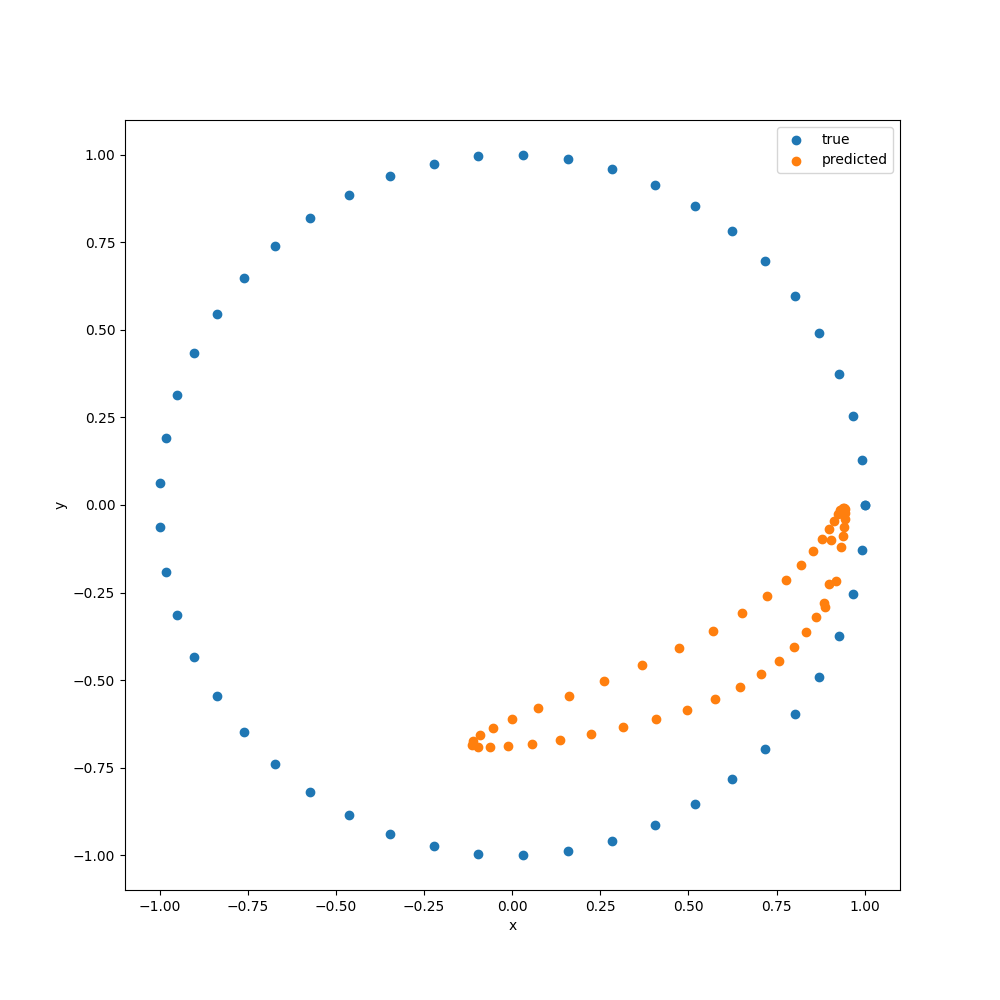
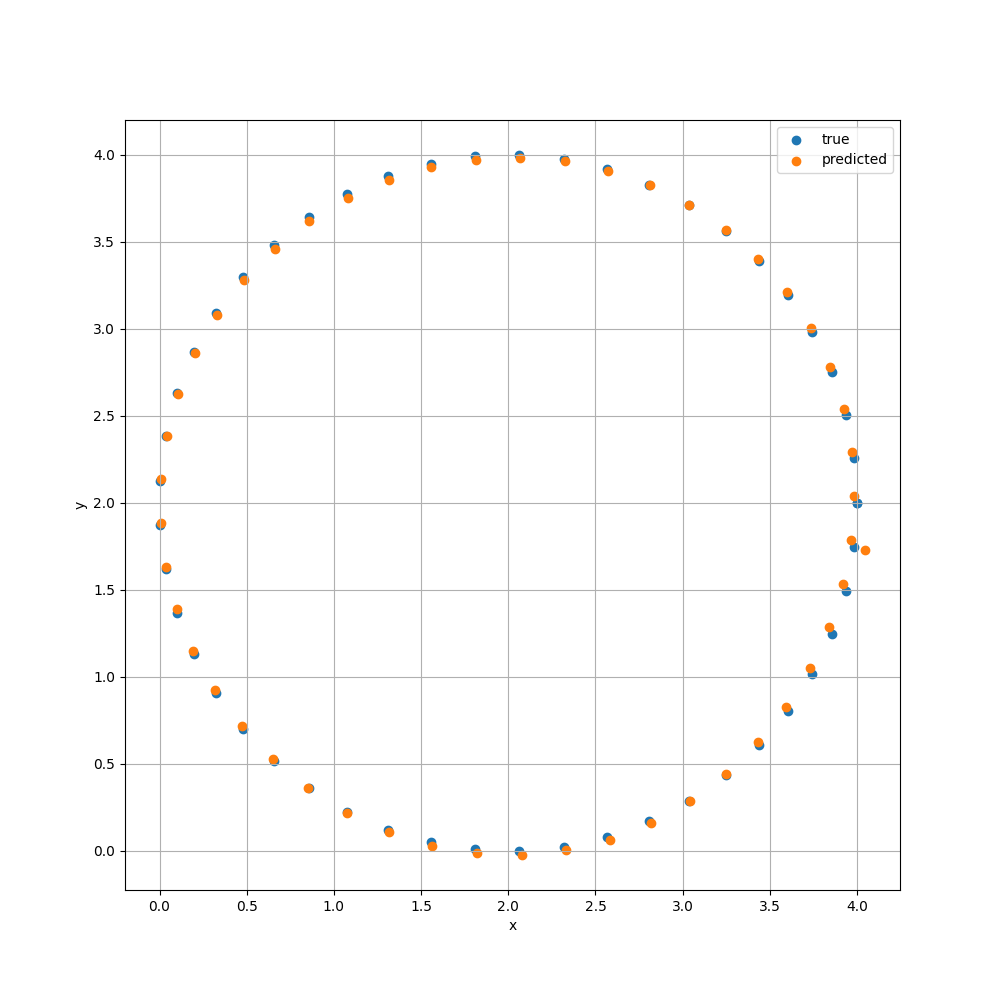
Completed

diff --git a/pytorch_pr3.py b/pytorch_pr3.py
@@ -57,12 +57,12 @@ class RNNModel(nn.Module):
         self.input_size = input_size
         self.hidden_size = hidden_size
         self.output_size = output_size
-        self.rnncell = nn.RNNCell(input_size, hidden_size, nonlinearity="relu")
+        self.rnncell = nn.RNNCell(input_size, hidden_size)
         self.fc = nn.Linear(hidden_size, output_size)
          
     def forward(self, x, hidden):
         hidden = self.rnncell(x, hidden)
-        output = self.fc(hidden)
+        output = hidden
         output = output.view(-1, 2)
         return output, hidden
 """
@@ -81,29 +81,36 @@ def train(epochs, model, criterion, optimizer):
     losses = []
 
     for epoch in range(epochs):
+        running_outputdata = []
         print('epoch:', epoch)
         optimizer.zero_grad()
         hidden = torch.zeros(hidden_size).to(device)
+        running_loss = 0.
         for x_train, y_train in train_loader:
             for timestep in range(x_train.shape[1]):
-                running_loss = 0.
                 traindata = x_train[0, timestep].to(device)
                 targetdata = y_train[0, timestep].to(device)
                 targetdata = targetdata.view(-1, 2)
                 output, hidden = model(traindata, hidden)
+                output = torch.atanh(output)
                 output, hidden = output.to(device), hidden.to(device)
                 loss = criterion(output, targetdata)
-                running_loss += loss
+                running_loss += loss / x_train.shape[1]
                 
-                # Last epoch: make outputdata
-                if epoch == epochs - 1:
-                    outputdata_cell = output.to("cpu").detach().numpy()
-                    outputdata.append(outputdata_cell)
-            running_loss.backward()
-            optimizer.step()
+                running_outputdata_cell = output.to("cpu").detach().numpy()
+                running_outputdata.append(running_outputdata_cell)
+                    
+        running_loss.backward()
+        optimizer.step()
 
-        print(f'loss: {running_loss.item() / len(x_train):.6f}')
-        losses.append(running_loss.item() / len(train_loader))
+        print(f'loss: {running_loss.item():.6f}')
+        losses.append(running_loss.item())
+        
+        
+        if running_loss.item() < 10e-4:
+            for i in range(x_train.shape[1]):
+                outputdata.append(running_outputdata[i])
+            break
                
     return output, losses
         
@@ -112,8 +119,8 @@ def train(epochs, model, criterion, optimizer):
 input_size = 2  # Input size
 hidden_size = 2  # Hidden layer size
 output_size = 2  # Output size
-learning_rate = 0.0001  # Learning rate
-num_epochs = 1000  # Number of epochs
+learning_rate = 0.001  # Learning rate
+num_epochs = 30000  # Number of epochs
 
 # Initialize model, loss function, optimizer
 model = RNNModel(input_size, hidden_size, output_size)
@@ -126,7 +133,6 @@ output, losses = train(num_epochs, model, criterion, optimizer)
 outputdata = np.array([arr for arr in outputdata])
 outputdata = np.array([inner[0] for inner in outputdata])
 
-print(outputdata)
  
 # Output the results
 true_x = truedata[:, 0]
@@ -139,7 +145,6 @@ plt.scatter(true_x, true_y, label="true")
 plt.scatter(predicted_x, predicted_y, label="predicted")
 plt.xlabel("x")
 plt.ylabel("y")
-
 plt.grid("true")
 plt.legend()
 plt.savefig("result_pytorch_pr3.png")
